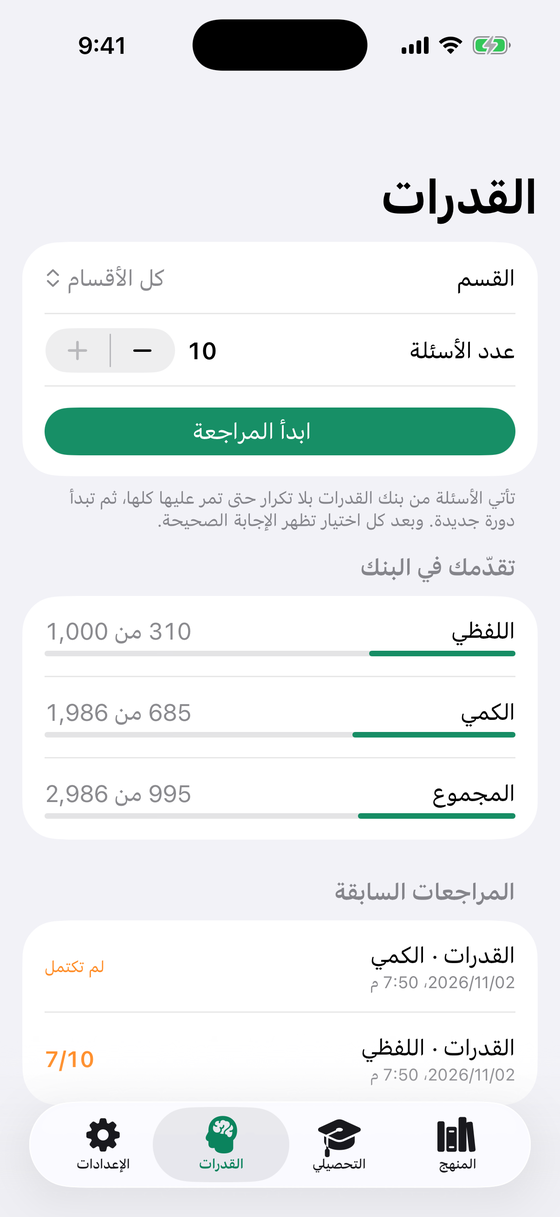
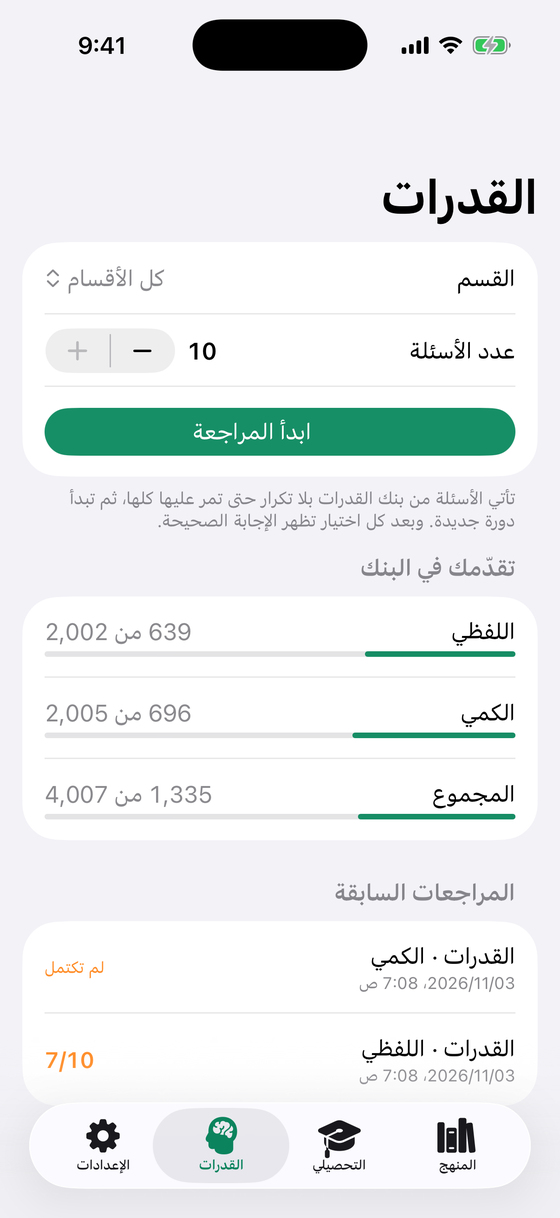
README: bank sizes and fresh screenshots for v1.0

diff --git a/README.md b/README.md
@@ -3,7 +3,7 @@
 تطبيق آيفون مجاني ومفتوح المصدر للطالب، يراجع معه فهمه بأسئلة «اختر الإجابة الصحيحة» من أربعة خيارات. وكل الحل على الجوال نفسه: لا طباعة ولا أوراق.
 
 - **المنهج:** يضيف الطالب كتاب أي مادة أو ملخصًا لها بصيغة PDF، ويسمّي وحداته بصفحاتها، ويختار وحدة وعدد الأسئلة من 1 إلى 10. يكتب الذكاء الاصطناعي الأسئلة بمفتاح الطالب المجاني، موزعة على أقسام الوحدة ومهاراتها، وزر «حدّث» يأتي بأسئلة جديدة لم تُسأل من قبل.
-- **التحصيلي** (الرياضيات والفيزياء والكيمياء والأحياء) **والقدرات** (اللفظي والكمي): بنك أسئلة داخل التطبيق، يعمل بلا إنترنت. لا يتكرر سؤال حتى يمر الطالب على البنك كله.
+- **التحصيلي** (الرياضيات والفيزياء والكيمياء والأحياء) **والقدرات** (اللفظي والكمي): بنك أسئلة داخل التطبيق، يعمل بلا إنترنت: 2004 أسئلة للتحصيلي (قرابة 500 لكل مادة)، و4007 أسئلة للقدرات (2002 لفظي و2005 كمي)، بمهارات متنوعة. لا يتكرر سؤال حتى يمر الطالب على البنك كله.
 - **«اشرح لي»:** تحت كل سؤال، يكتب الذكاء الاصطناعي سبب الإجابة الصحيحة عند الطلب فقط، بمفتاح الطالب، ويُحفظ الشرح في الجوال.
 - **النتيجة:** الدرجة، والدرجة حسب المهارة، وكل سؤال بإجابة الطالب والإجابة الصحيحة، وزر «أعد أخطائي».
 - **الخصوصية:** كل البيانات في الجوال وحده، والمفاتيح في Keychain، والجوال يتصل بمزوّد الذكاء الاصطناعي مباشرة.
